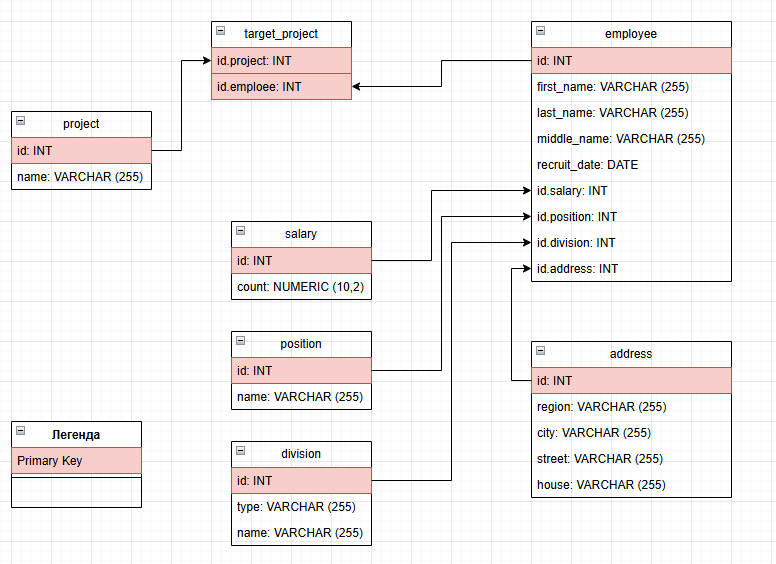
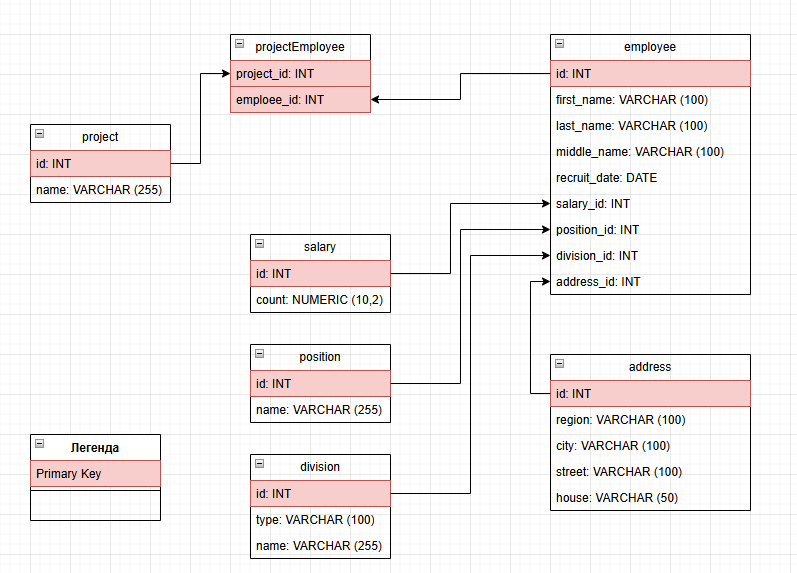
HW_1201_SQL_Ex2

diff --git a/HW_1201_SQL/README.md b/HW_1201_SQL/README.md
@@ -22,7 +22,7 @@
 
 **Результатом выполнения задания** должен стать скриншот получившейся схемы базы данных.
 ![Excel](image.png)
-![Схема](image-1.png)
+![Схема БД](image-1.png)
 
 
 
@@ -39,3 +39,67 @@
 В качестве решения приложите SQL скрипт и скриншот диаграммы.
 
 Для написания и редактирования sql удобно использовать  специальный инструмент dbeaver.
+
+```
+-- Создание таблицы со списком проектов
+CREATE TABLE project (
+  id SERIAL PRIMARY KEY,
+  name VARCHAR(100) NOT NULL
+);
+-- Создание таблицы с данными о зарплате
+CREATE TABLE salary (
+  id SERIAL PRIMARY KEY,
+  count NUMERIC (10,2) NOT null
+);
+-- Создание таблицы должностей
+CREATE TABLE position (
+  id SERIAL PRIMARY KEY,
+  name VARCHAR(255) NOT NULL UNIQUE
+);
+-- Создание таблицы структурных подразделений
+CREATE TABLE division (
+  id SERIAL PRIMARY KEY,
+  type VARCHAR(100) NOT NULL,
+  name VARCHAR(100) NOT NULL,
+  UNIQUE (type, name)
+);
+-- Создание таблицы адресов филиалов
+CREATE TABLE address (
+  id SERIAL PRIMARY KEY,
+  region VARCHAR(100) NOT null,
+  city VARCHAR(100) NOT NULL,
+  street VARCHAR(100) NOT NULL,
+  house VARCHAR(50) NOT NULL,
+  UNIQUE (region, city, street, house)
+);
+
+-- Создание таблицы с данными о сотрудниках
+CREATE TABLE employee (
+  id SERIAL PRIMARY KEY,
+  first_name VARCHAR(100) NOT NULL, -- Имя
+  last_name VARCHAR(100) NOT NULL, -- Фамилия
+  middle_name VARCHAR(100) NOT NULL, -- Отчество
+  recruit_date DATE not null, -- Дата приема на работу
+  salary_id INTEGER,
+  position_id INTEGER,
+  division_id INTEGER,
+  address_id INTEGER,
+  FOREIGN KEY (salary_id) REFERENCES salary(id),
+  FOREIGN KEY (position_id) REFERENCES position(id),
+  FOREIGN KEY (division_id) REFERENCES division(id),
+  FOREIGN KEY (address_id) REFERENCES address(id)
+);
+
+-- Создание таблицы соответствия сотрудников и проектов (связь «многие ко многим» между project и employee), 
+CREATE TABLE projectEmployee (
+  id SERIAL PRIMARY KEY,
+  project_id INTEGER NOT NULL,
+  employee_id INTEGER NOT NULL,
+  FOREIGN KEY (project_id) references project(id),
+  FOREIGN KEY (employee_id) REFERENCES employee(id),
+  UNIQUE (project_id, employee_id)
+);
+
+```
+
+![DBeawer](image-2.png)
